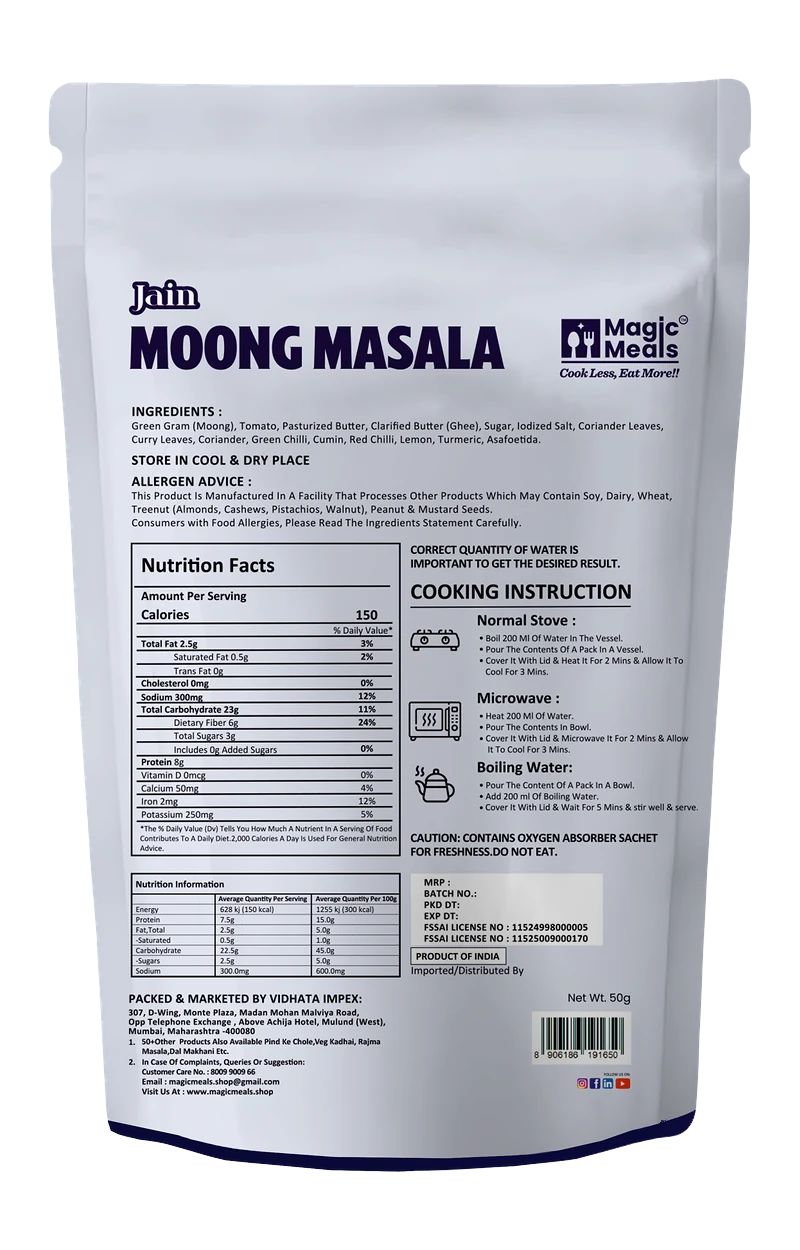
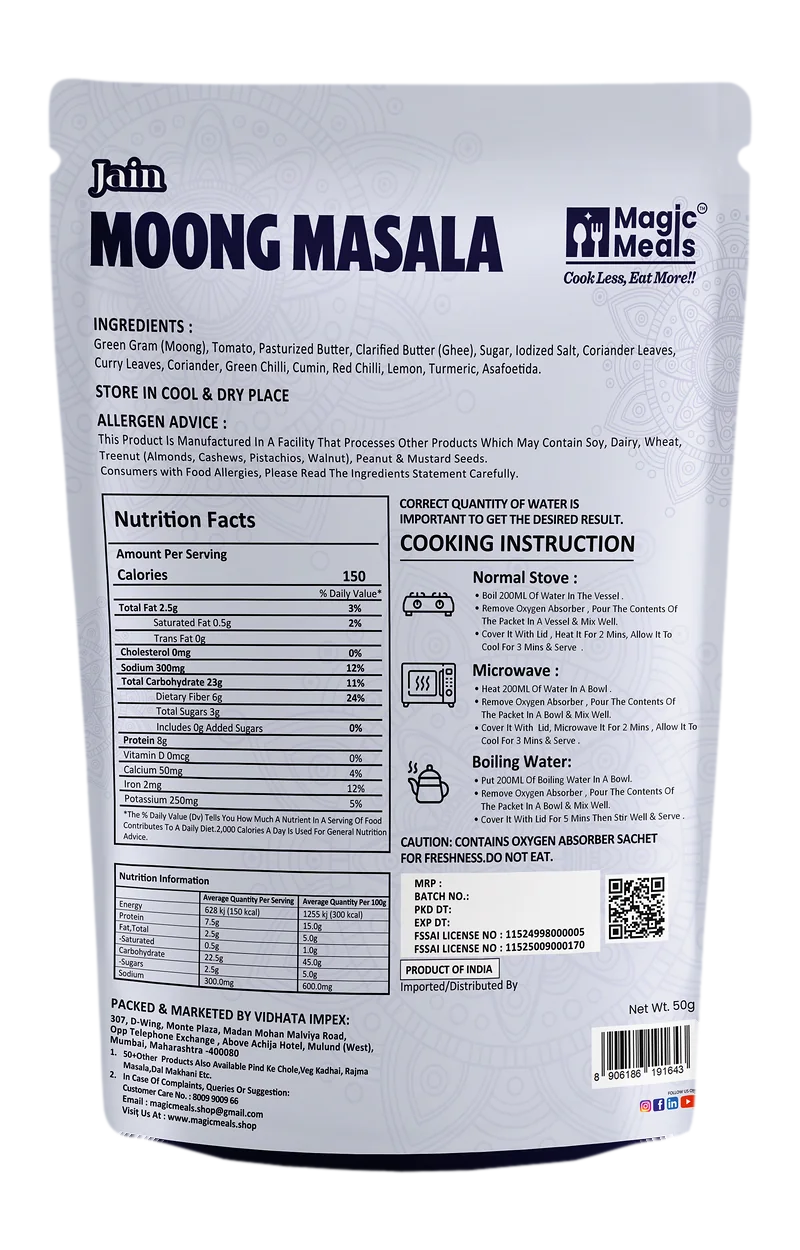
Add Jain Poha product, Jain moong masala back, Shopify CSV rows
- new product jain-poha (front from poha_jain_front.png, back from the Jain mockup), 3D textures and card images
- moong-masala back fitted from the Jain mockup (the Jain pouch it shows)
- products with no reviews show 'New' instead of a rating
- shopify_products.csv: jain-poha rows; assets/products/poha_jain_back.png
- incoming-backs/JAIN added; fit-backs.py picks the folder matching the pouch front shown

diff --git a/main.js b/main.js
@@ -398,6 +398,23 @@
         desc: 'Flattened rice tempered with crunchy peanuts, curry leaves, onions, and fresh lemon. Light yet satisfying.'
       },
       {
+        id: 'jain-poha',
+        title: 'Jain Poha',
+        category: 'Breakfast',
+        price: 120,
+        mrp: 140,
+        img: 'pouch-art/jain-poha-front-processed.png',
+        imgBack: 'pouch-art/tex/jain-poha-back-800.webp',
+        jain: true,
+        spice: 'Mild',
+        rating: 0,
+        reviews: 0,
+        weight: '100g net (makes 250g)',
+        calories: '175 kcal',
+        protein: '3g',
+        desc: 'Jain-friendly flattened rice poha with green chilli, lemon, cumin, mustard seed, turmeric and curry leaves. Just add hot water.'
+      },
+      {
         id: 'idli-sambar',
         title: 'South Indian Idli Sambar',
         category: 'Breakfast',
@@ -836,7 +853,7 @@
             <div class="card-meta">
               <span class="card-rating">
                 <svg viewBox="0 0 24 24"><path d="M12 2l3.09 6.26L22 9.27l-5 4.87 1.18 6.88L12 17.77l-6.18 3.25L7 14.14 2 9.27l6.91-1.01L12 2z"/></svg>
-                ${p.rating} (${p.reviews})
+                ${p.reviews ? `${p.rating} (${p.reviews})` : 'New'}
               </span>
               <span class="card-spice">${p.spice === 'Spicy' ? '🌶🌶' : p.spice === 'Medium' ? '🌶' : '🌿 Mild'}</span>
             </div>
@@ -1216,7 +1233,7 @@
               <div class="pdp-badges-row">
                 <span class="card-rating">
                   <svg viewBox="0 0 24 24" style="width:16px;height:16px;color:var(--rating);fill:var(--rating);"><path d="M12 2l3.09 6.26L22 9.27l-5 4.87 1.18 6.88L12 17.77l-6.18 3.25L7 14.14 2 9.27l6.91-1.01L12 2z"/></svg>
-                  <b>${p.rating}</b> (${p.reviews} verified customer reviews)
+                  ${p.reviews ? `<b>${p.rating}</b> (${p.reviews} verified customer reviews)` : '<b>New</b>'}
                 </span>
                 <span style="color:var(--text-muted);">•</span>
                 <span style="font-size:13px; font-weight:600; color:var(--brand-primary);">In Stock • Ships in 24 hrs</span>

diff --git a/tools/fit-backs.py b/tools/fit-backs.py
@@ -35,9 +35,15 @@ MAX_STRETCH = 0.09
 SLUGS = ["rajma-masala", "paneer-butter-masala", "paneer-bhurji", "pind-ke-chhole", "pav-bhaji", "bhindi-masala", "veg-kadhai",
          "veg-makhanwala", "moong-masala", "dal-makhani", "dal-tadka", "dal-fry", "gujarati-dal", "dal-khichdi",
          "masala-khichdi-kadhi", "veg-biryani", "jeera-rice", "tawa-pulao", "fried-rice-manchurian", "fried-rice",
-         "schezwan-rice", "mexican-rice", "kanda-poha", "idli-sambar", "upma", "mumbai-misal", "tomato-soup",
+         "schezwan-rice", "mexican-rice", "kanda-poha", "jain-poha", "idli-sambar", "upma", "mumbai-misal", "tomato-soup",
          "sweet-corn-soup", "hot-and-sour-soup", "gajar-halwa", "aam-ras", "rawa-sheera"]
-ASSET_NAME = {'pind-ke-chhole': 'pind_ke_chole', 'fried-rice-manchurian': 'fried_rice_with_manchurian_gravy'}
+# Products whose FRONT texture in the viewer is the Jain pouch (printed "Jain" mark). Every other product shows the regular pouch front.
+# A file that exists in both incoming folders is taken from the folder that matches the front the viewer shows, so back and front are the
+# same pouch (the Jain backs have a Jain mark, different ingredients and nutrition values). The main.js `jain` flag only drives the
+# "Jain Friendly" badge and filter, it does not say which pouch the viewer shows, so it is not used for this.
+JAIN_FRONT = {'moong-masala', 'dal-fry', 'jain-poha'}
+FILE_KEY = {'jain-poha': 'poha'}        # normalised incoming file name ('POHA 2.png', JAIN folder) -> product slug
+ASSET_NAME = {'jain-poha': 'poha_jain', 'pind-ke-chhole': 'pind_ke_chole', 'fried-rice-manchurian': 'fried_rice_with_manchurian_gravy'}
 
 _spec = importlib.util.spec_from_file_location('replace_backs', os.path.join(os.path.dirname(__file__), 'replace-backs.py'))
 _rb = importlib.util.module_from_spec(_spec); _spec.loader.exec_module(_rb)
@@ -55,10 +61,13 @@ def mapping():
             by_key.setdefault(norm(f), []).append((os.path.join(dp, f), os.path.basename(dp).upper()))
     m, ambiguous, used = {}, {}, set()
     for slug in SLUGS:
-        c = by_key.get(slug.replace('-', ''))
+        c = by_key.get(FILE_KEY.get(slug, slug.replace('-', '')))
         if not c: continue
-        used.add(slug.replace('-', ''))
-        if len({fo for _, fo in c}) > 1: ambiguous[slug] = c; continue      # a file in both folders: needs a Jain rule
+        used.add(FILE_KEY.get(slug, slug.replace('-', '')))
+        if len({fo for _, fo in c}) > 1:                                   # a file in both folders: take the one matching the front shown
+            want = 'JAIN' if slug in JAIN_FRONT else 'REGULAR'
+            ambiguous[slug] = [x for x in c if x[1] != want]               # the twin that is NOT used (for the report)
+            c = [x for x in c if x[1] == want]
         c.sort(key=lambda t: os.path.getmtime(t[0]), reverse=True); m[slug] = c[0]
     unmatched = [p for k, v in by_key.items() if k not in used for p, _ in v]
     return m, unmatched, ambiguous
@@ -137,6 +146,17 @@ def keep_old(slug):
         p = os.path.join(ART, f)
         if os.path.exists(p) and not os.path.exists(os.path.join(OLD, f)): shutil.copy2(p, os.path.join(OLD, f))
 
+def card_assets(slug):
+    """For a NEW product: pouch-art/<slug>-front-processed.png (1024x1600, main.js `img`) and pouch-art/cards/<slug>-front-640.webp
+    (640x1000 lossless, same as tools/prep-scene.py makes for cards, BYOB and cart)."""
+    arr = place_front(asset(slug, 'front'), 1024, 1600)
+    out = os.path.join(ART, f'{slug}-front-processed.png'); Image.fromarray(arr).save(out, 'PNG', optimize=True)
+    im = Image.open(out).convert('RGBA'); k = min(1.0, 1000 / float(im.height))
+    im = im.resize((int(round(im.width * k)), int(round(im.height * k))), Image.LANCZOS)
+    os.makedirs(os.path.join(ART, 'cards'), exist_ok=True)
+    im.save(os.path.join(ART, 'cards', f'{slug}-front-640.webp'), 'WEBP', lossless=True, method=6)
+    print('card assets:', out, im.size)
+
 def build(slug, new_back=None):
     os.makedirs(TEX, exist_ok=True); row = {'slug': slug, 'folder': new_back[1] if new_back else 'unchanged', 'status': 'ok'}
     for name, (W, H, budget) in SIZES.items():
@@ -167,9 +187,10 @@ if __name__ == '__main__':
     if a in ('map', 'all'):
         print(f'{len(m)} products mapped:')
         for s in SLUGS:
-            print(f'  {s:24s} {os.path.relpath(m[s][0], ROOT)}  [{m[s][1]}]' if s in m else f'  {s:24s} (no new back){"  AMBIGUOUS, in both folders: left unchanged" if s in ambiguous else ""}')
+            print(f'  {s:24s} {os.path.relpath(m[s][0], ROOT)}  [{m[s][1]}]' + (f'   (twin in {ambiguous[s][0][1]} not used: regular/Jain pouch must match the front)' if s in ambiguous and ambiguous[s] else '') if s in m else f'  {s:24s} (no new back)')
         print('unmatched new files:', unmatched or 'none')
     if a == 'map': sys.exit()
+    if a == 'card': card_assets(sys.argv[2]); sys.exit()
     todo = SLUGS if a == 'all' else [a]
     rows = [build(s, m.get(s)) for s in todo]
     print_table(rows)
